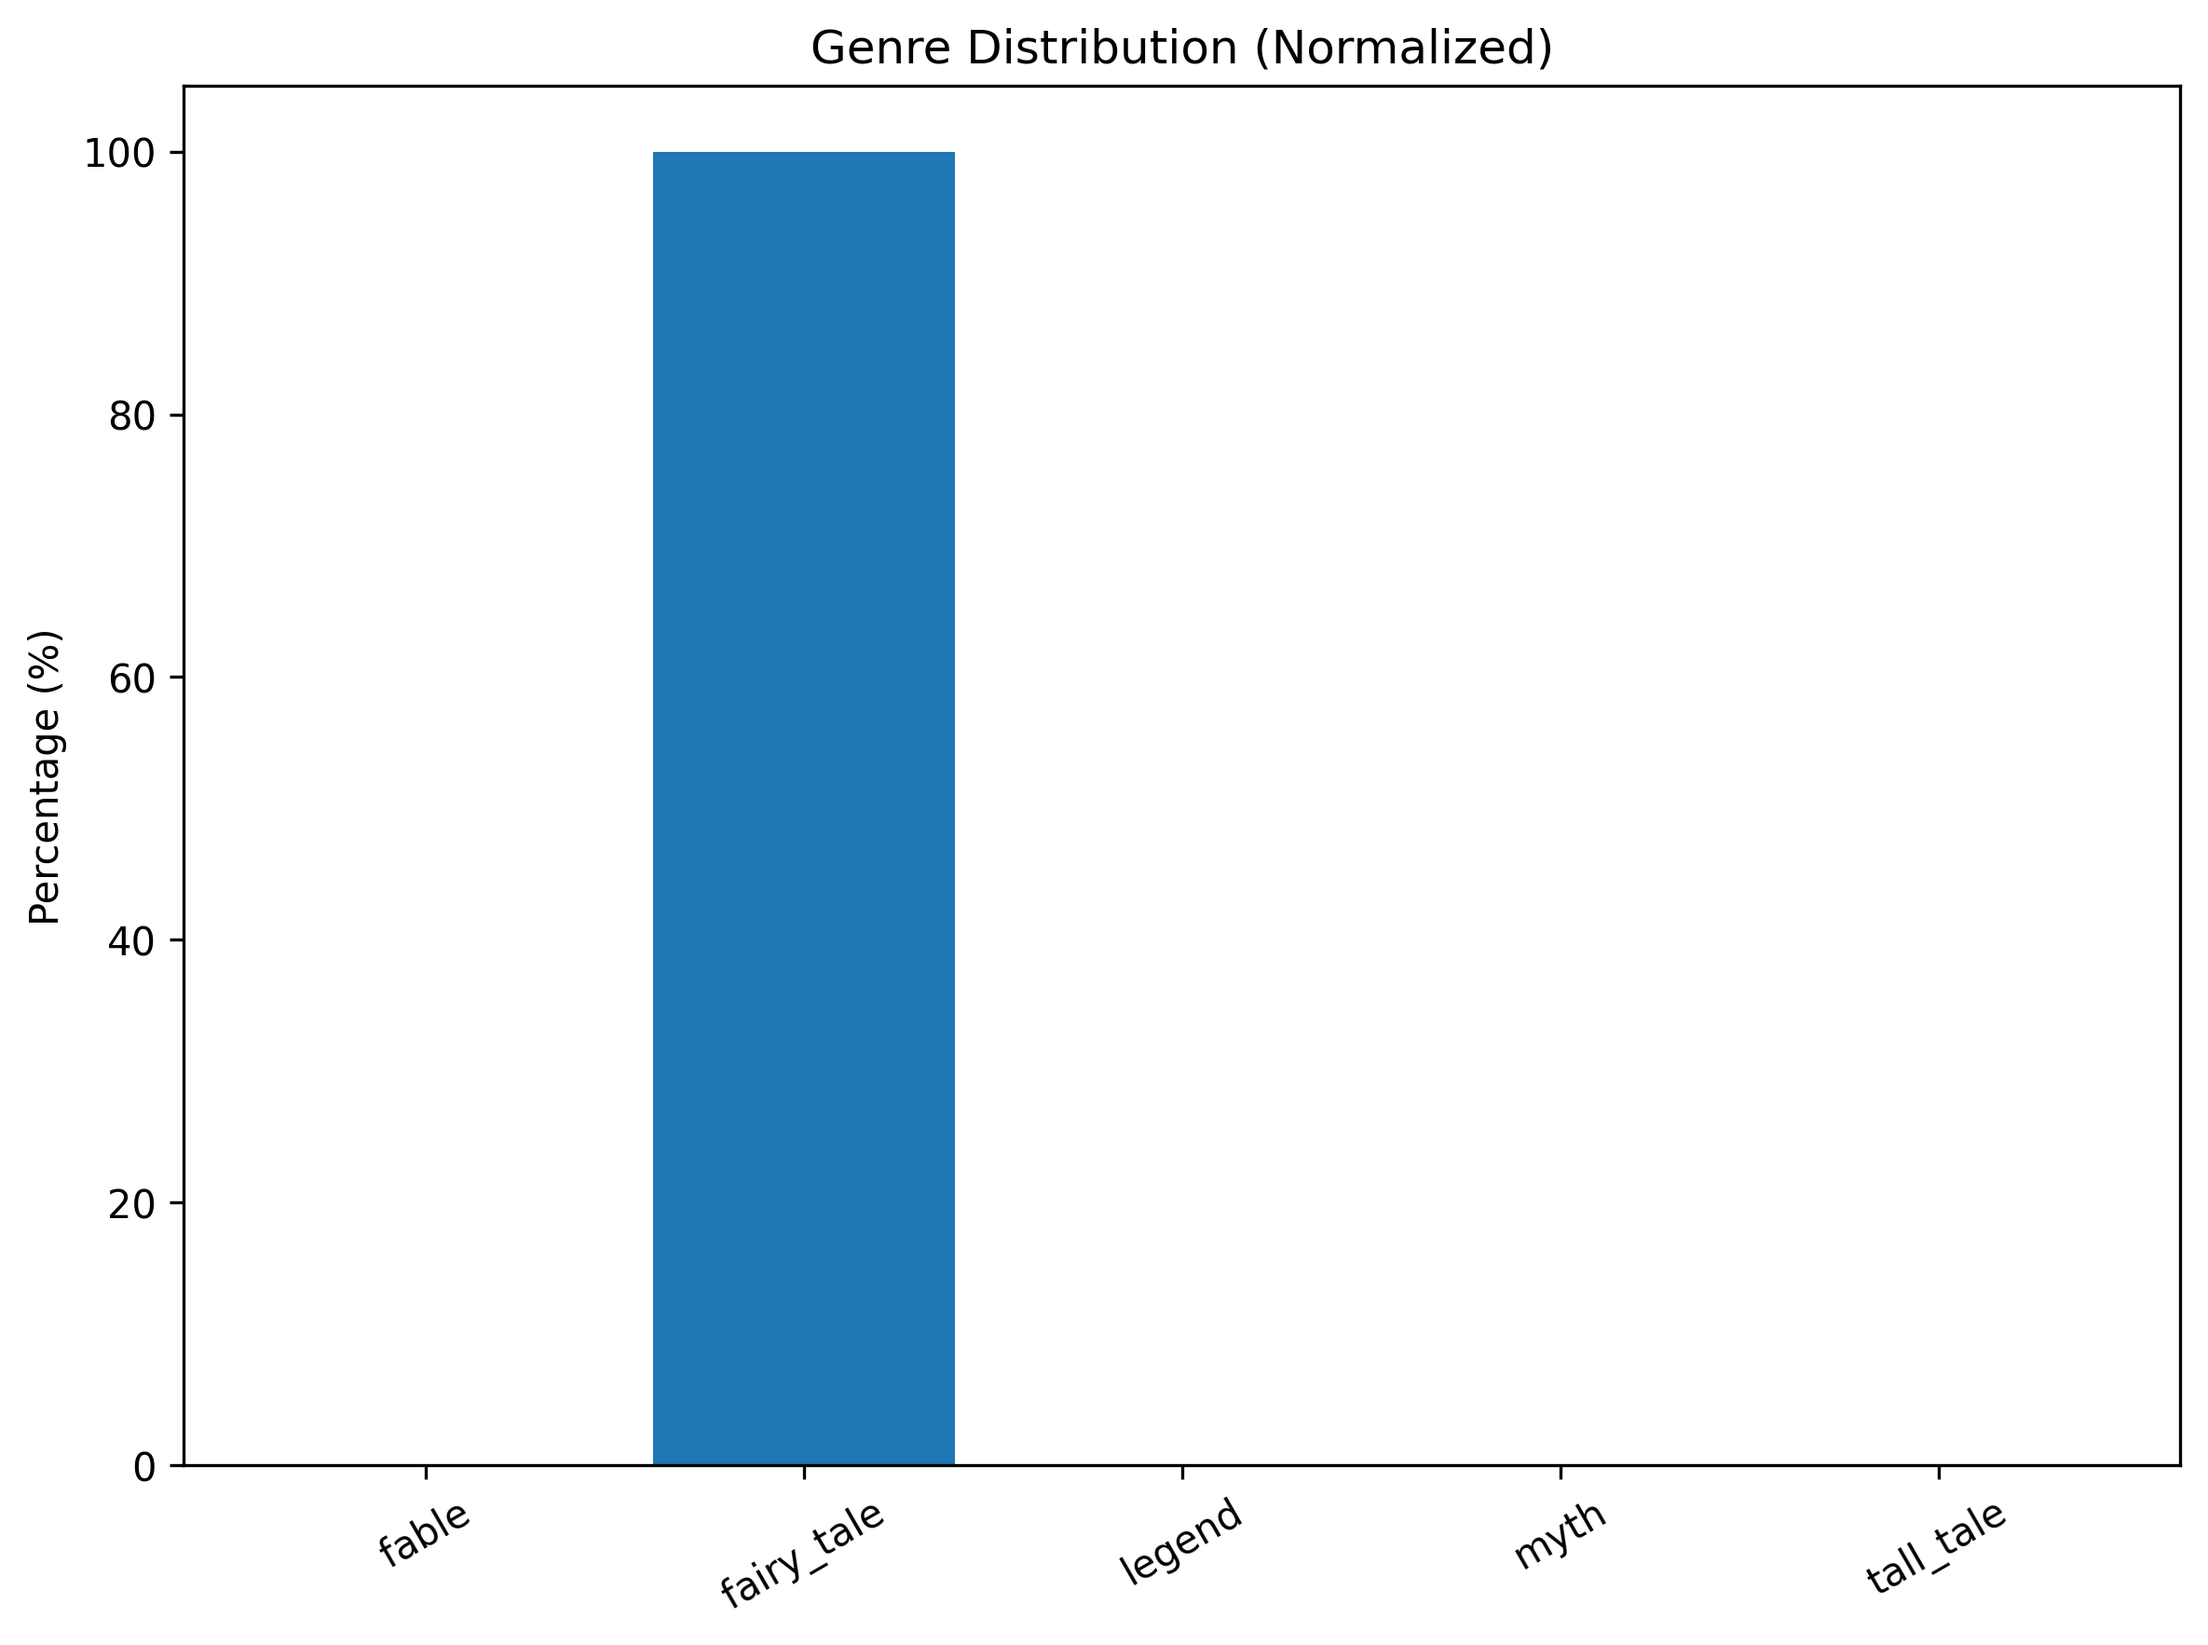
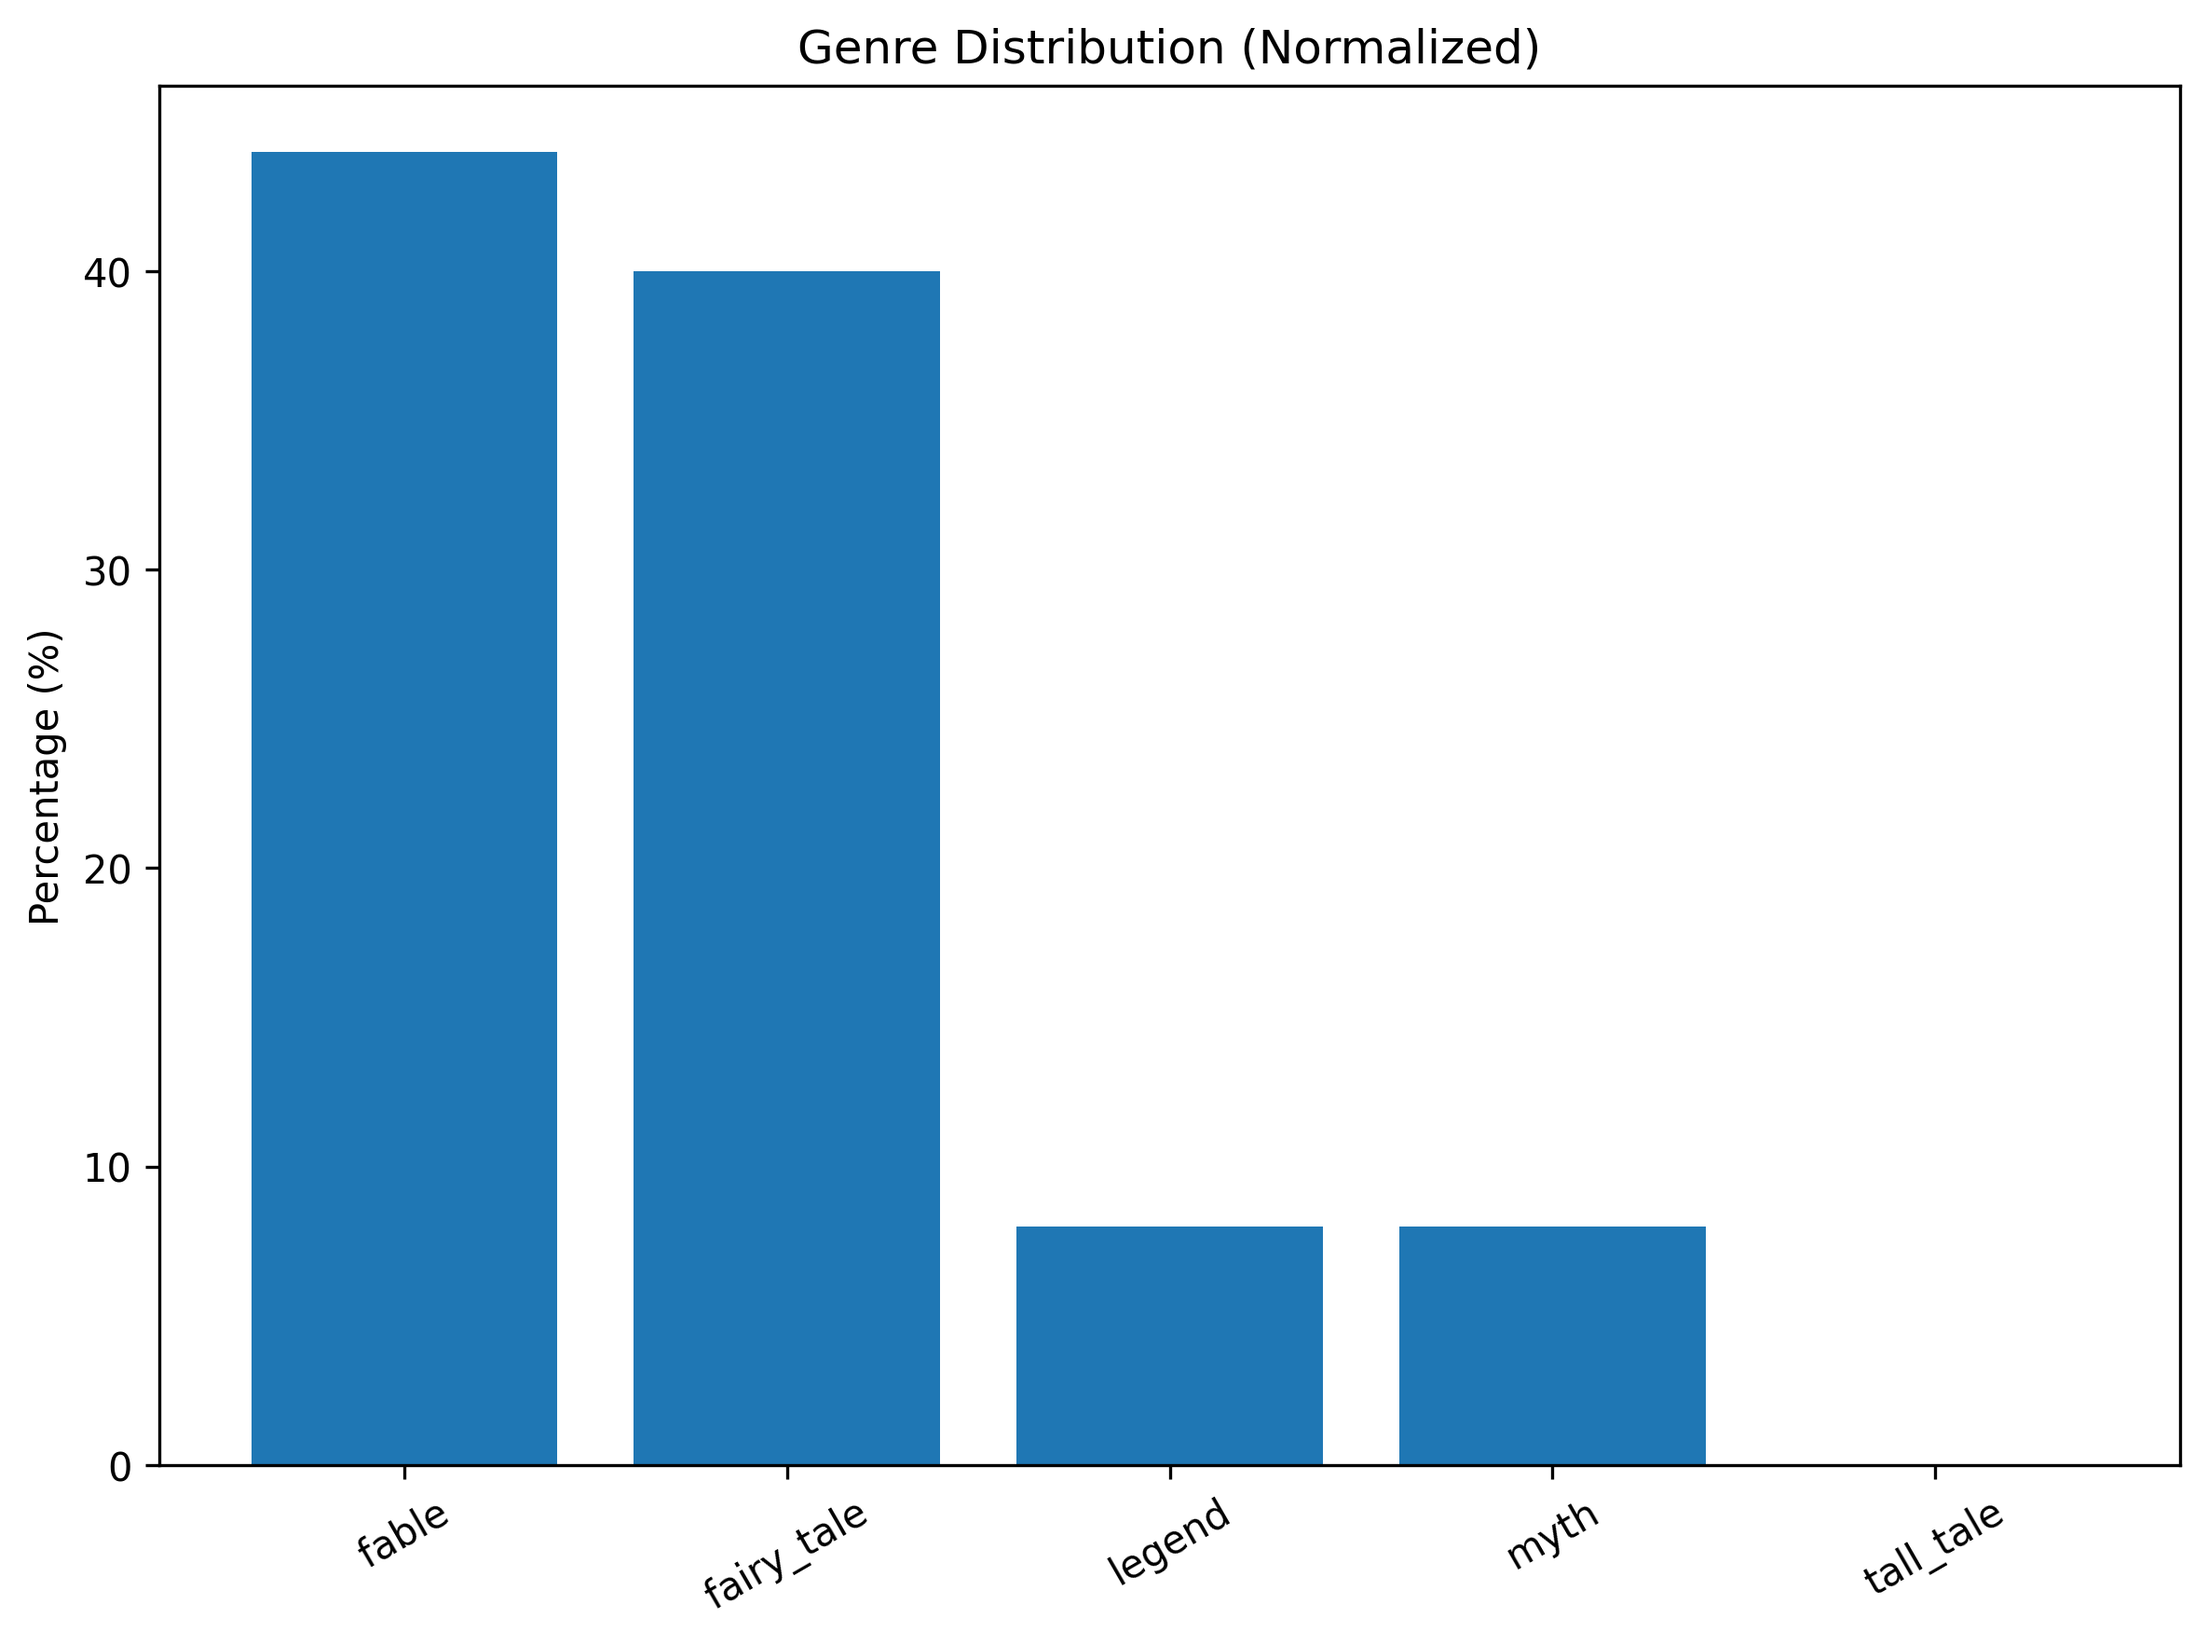
Índices en los cuentos

diff --git a/annotation/main.py b/annotation/main.py
@@ -3,6 +3,7 @@ from langchain_ollama import ChatOllama
 from langchain_core.language_models.chat_models import BaseChatModel
 from common.models.event import EventElements, EventMetadata, EventExample, Event, EventClass
 from common.utils.loader import load_folktale_csv, load_json_folder, save_annotated_folktale, data_dir, out_dir
+from common.utils.regex_utils import title_case_to_snake_case, clean_regex
 from annotation.tools.place_extractor import extract_places
 from annotation.tools.agent_extractor import extract_agents
 from annotation.tools.genre_extractor import extract_genre
@@ -16,6 +17,7 @@ from annotation.visualization import show_genre_distribution
 from loguru import logger
 import uuid
 import os
+import re
 
 def get_model(temperature: float) -> BaseChatModel:
 	model = ChatOllama(
@@ -106,14 +108,18 @@ def main():
 	object_hierarchy = hierarchies["object"]
 
 	folktales_df = load_folktale_csv()
-	selected_folktales_df = get_folktales_by_count(folktales_df, 750, 1000)
+	selected_folktales_df = get_folktales_by_count(folktales_df, 0, 5000)
 
 	for idx, row in selected_folktales_df.iterrows():
 		text = row["text"]
 		uri = row["source"].rstrip('/')
-		nation = row["nation"].lower()
+		nation = row["nation"]
+		if isinstance(nation, str):
+			nation = nation.lower()
+		else:
+			nation = None
 		title = row["title"]
-
+		
 		logger.debug(f"Annotating '{title}'...")
 
 		try:
@@ -175,7 +181,9 @@ def main():
 				objects=objects,
 				events=events
 			)
-			save_annotated_folktale(folktale, folktale.title)
+			filename = re.sub(clean_regex, "", title)
+			filename = title_case_to_snake_case(filename)
+			save_annotated_folktale(folktale, f"{idx}_{filename}")
 
 		except Exception:
 			logger.exception(

diff --git a/common/utils/loader.py b/common/utils/loader.py
@@ -81,7 +81,7 @@ def save_annotated_folktale(folktale: AnnotatedFolktale, filename: str):
 		exclude_none=True
 	)
 
-	output_file = title_case_to_snake_case(filename) + ".json"
+	output_file = filename + ".json"
 	path = os.path.join(annotated_dir, output_file)
 
 	with open(path, "w", encoding="utf-8") as f:
@@ -94,7 +94,7 @@ def save_raw_folktale(folktale: str, filename: str):
 
 	os.makedirs(raw_dir, exist_ok=True)
 
-	output_file = title_case_to_snake_case(filename) + ".txt"
+	output_file = filename + ".txt"
 	path = os.path.join(raw_dir, output_file)
 
 	with open(path, "w", encoding="utf-8") as f:

diff --git a/common/models/folktale.py b/common/models/folktale.py
@@ -4,6 +4,7 @@ from common.models.place import Place
 from common.models.object import Object
 from common.models.event import Event
 from enum import StrEnum
+from typing import Optional
 
 class GenreClass(StrEnum):
 	'''Enumeration of common genres of folktales, classified by typical themes, characters and narrative conventions.'''
@@ -19,7 +20,7 @@ class Genre(BaseModel):
 
 class AnnotatedFolktale(BaseModel):
 	uri: str
-	nation: str
+	nation: Optional[str] = None
 	title: str
 	has_genre: GenreClass
 	

diff --git a/common/utils/regex_utils.py b/common/utils/regex_utils.py
@@ -6,6 +6,8 @@ snake_case_regex = r"^[a-z]+(_[a-z]+)*$"
 
 relationship_regex = r"Therefore, their relationship is:\s*['\"]?([^'\"\s.]+)"
 
+clean_regex = r"[^\w\s]"
+
 def split_camel_case(text: str):
 	'''Inserta espacios entre las minúsculas y mayúsculas.
 	
